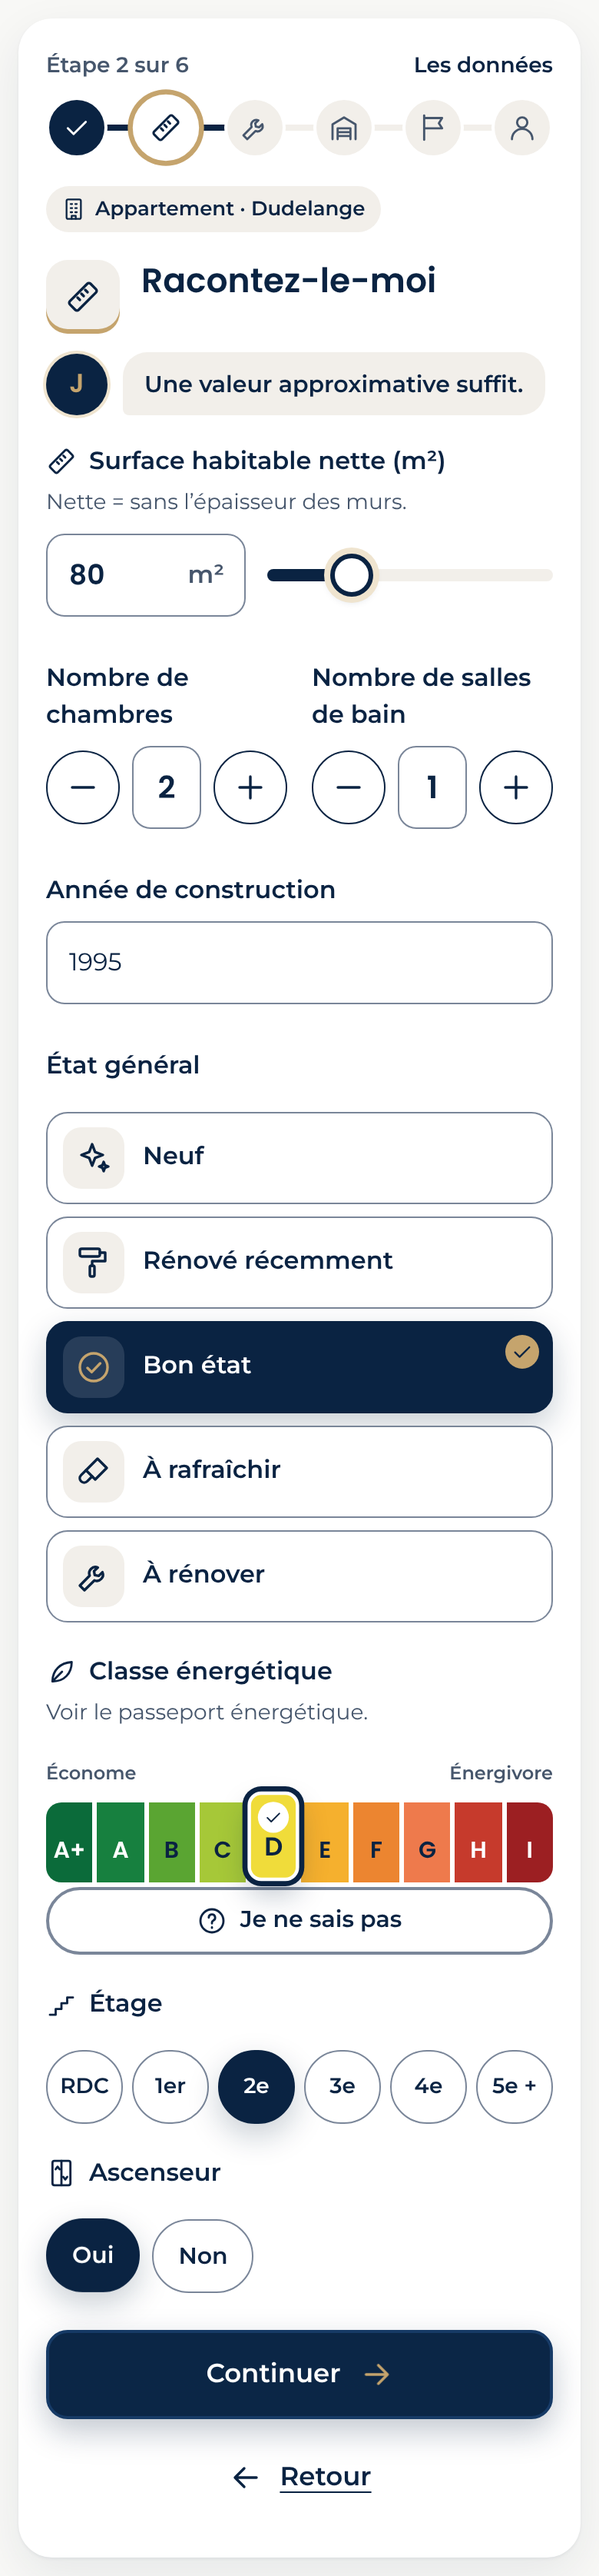
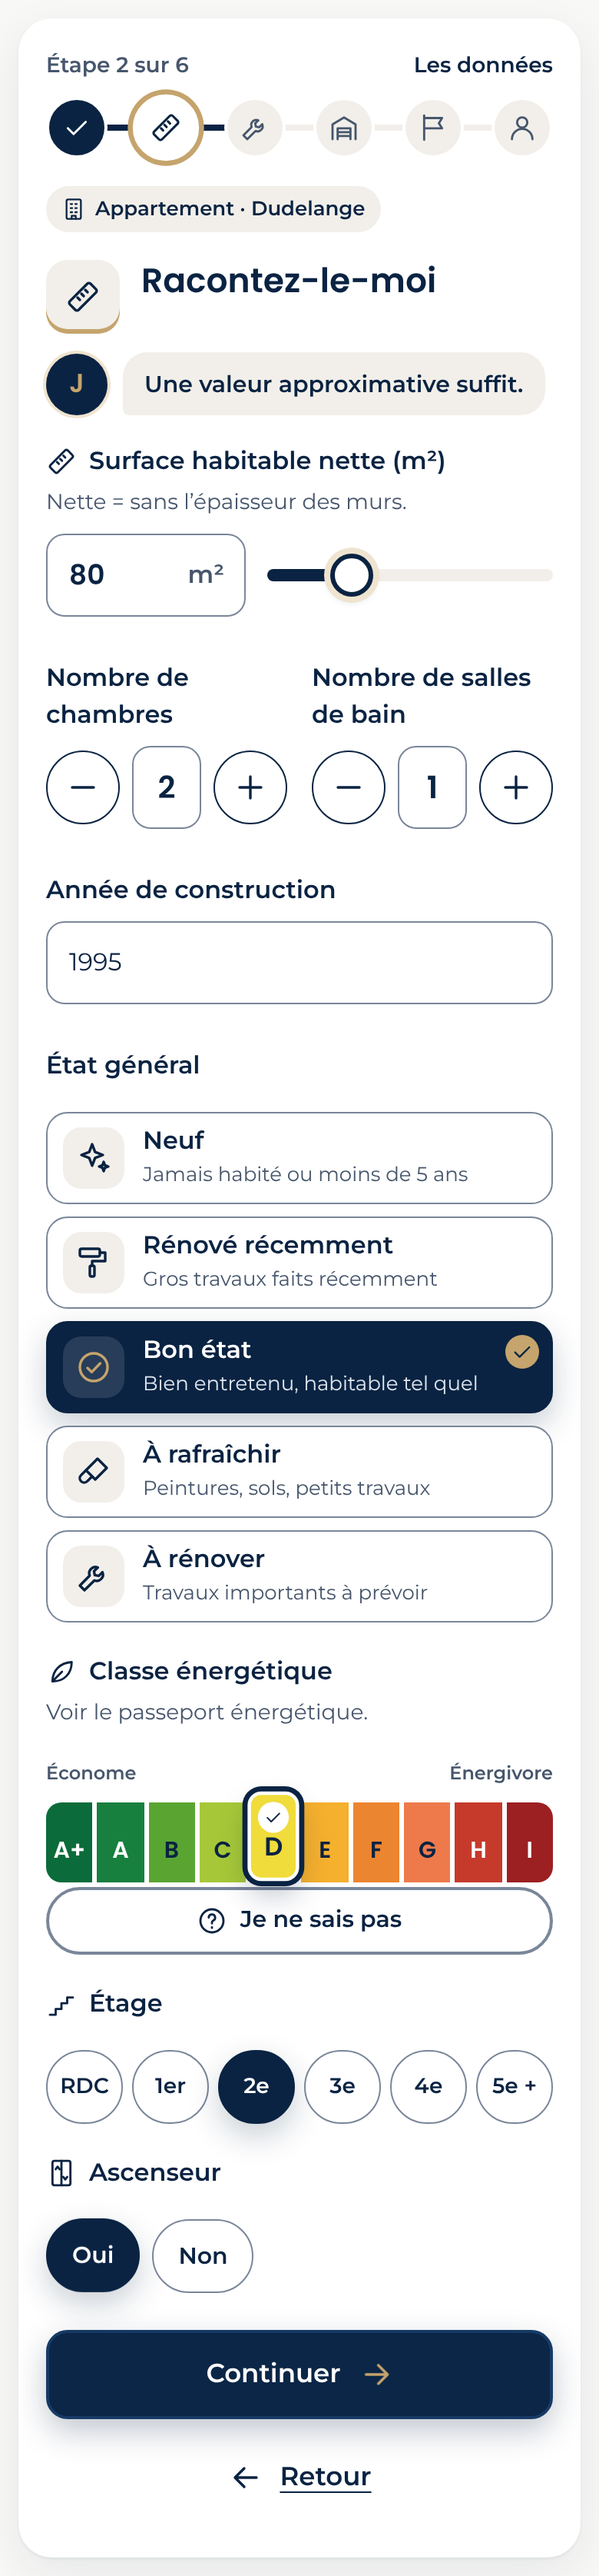
estimation-widget: explications de l'état général de retour, sceau doré à la place des confettis
- état général : les explications courtes reviennent (poste qui pèse le plus
  sur le prix, −15 % à +8 %)
- résultat : un sceau doré qui se dessine et un liseré doré qui se remplit,
  plus sobres que des confettis pour une estimation parfois décevante
- 45 tests, 0 erreur axe-core

Claude-Session: https://claude.ai/code/session_01846hvutoHPqEEd264myZJw

Changed region(s): [[0.2462, 0.4346, 0.6462, 0.6209]]

diff --git a/estimation-widget/src/styles.css b/estimation-widget/src/styles.css
@@ -531,36 +531,12 @@ details.recap ul { padding: 0 14px 10px; }
 p.trust { display: flex; align-items: center; justify-content: center; gap: 8px; margin: 4px 0 0; font-size: 0.8125rem; color: var(--muted); font-weight: 500; }
 p.trust .ico { color: var(--up); }
 
-/* ---------- Confettis dorés sur le résultat ---------- */
-.result-hero { overflow: hidden; }
-.confetti { position: absolute; inset: 0; pointer-events: none; }
-.confetti i { position: absolute; top: -12px; width: 8px; height: 12px; border-radius: 2px; background: var(--gold); opacity: 0; animation: confetti 2.4s cubic-bezier(0.25, 0.6, 0.4, 1) forwards; }
-.confetti i:nth-child(3n) { background: #e3cfa6; width: 6px; height: 10px; }
-.confetti i:nth-child(4n) { background: #ffffff; width: 5px; height: 8px; border-radius: 50%; }
-.confetti i:nth-child(1) { left: 6%; animation-delay: 0.05s; }
-.confetti i:nth-child(2) { left: 13%; animation-delay: 0.3s; }
-.confetti i:nth-child(3) { left: 20%; animation-delay: 0.15s; }
-.confetti i:nth-child(4) { left: 27%; animation-delay: 0.45s; }
-.confetti i:nth-child(5) { left: 33%; animation-delay: 0s; }
-.confetti i:nth-child(6) { left: 40%; animation-delay: 0.35s; }
-.confetti i:nth-child(7) { left: 46%; animation-delay: 0.1s; }
-.confetti i:nth-child(8) { left: 52%; animation-delay: 0.5s; }
-.confetti i:nth-child(9) { left: 58%; animation-delay: 0.2s; }
-.confetti i:nth-child(10) { left: 64%; animation-delay: 0.4s; }
-.confetti i:nth-child(11) { left: 70%; animation-delay: 0.05s; }
-.confetti i:nth-child(12) { left: 76%; animation-delay: 0.3s; }
-.confetti i:nth-child(13) { left: 82%; animation-delay: 0.15s; }
-.confetti i:nth-child(14) { left: 88%; animation-delay: 0.45s; }
-.confetti i:nth-child(15) { left: 94%; animation-delay: 0.25s; }
-.confetti i:nth-child(16) { left: 10%; animation-delay: 0.6s; }
-.confetti i:nth-child(17) { left: 50%; animation-delay: 0.7s; }
-.confetti i:nth-child(18) { left: 90%; animation-delay: 0.65s; }
-.confetti i:nth-child(odd) { --drift: 24px; --spin: 540deg; }
-.confetti i:nth-child(even) { --drift: -20px; --spin: -420deg; }
-@keyframes confetti {
-  0% { opacity: 0; transform: translate(0, 0) rotate(0); }
-  10% { opacity: 1; }
-  100% { opacity: 0; transform: translate(var(--drift), 260px) rotate(var(--spin)); }
-}
-@media (prefers-reduced-motion: reduce) { .confetti { display: none; } }
-@media print { .confetti { display: none; } }
+/* ---------- Sceau doré qui se dessine (à la place de confettis) ---------- */
+.sent-note .seal { width: 22px; height: 22px; flex: none; }
+.seal-ring, .seal-check { fill: none; stroke: var(--gold); stroke-width: 3.5; stroke-linecap: round; stroke-linejoin: round; }
+.seal-ring { stroke-dasharray: 126; stroke-dashoffset: 126; transform: rotate(-90deg); transform-origin: 24px 24px; animation: draw 0.7s var(--ease) 0.15s forwards; }
+.seal-check { stroke-dasharray: 30; stroke-dashoffset: 30; animation: draw 0.4s var(--ease) 0.8s forwards; }
+@keyframes draw { to { stroke-dashoffset: 0; } }
+.result-hero::after { background-size: 200% 100%; animation: goldline 1.6s var(--ease) 0.3s both; }
+@keyframes goldline { from { background-position: 100% 0; opacity: 0.3; } to { background-position: 0 0; opacity: 1; } }
+@media (prefers-reduced-motion: reduce) { .seal-ring, .seal-check { stroke-dashoffset: 0; animation: none; } }

diff --git a/estimation-widget/src/ui/result.ts b/estimation-widget/src/ui/result.ts
@@ -138,8 +138,7 @@ export function renderResult(r: PublicResult, t: T, lang: Lang, opts: ResultOpti
 
   return `<section class="result" aria-labelledby="result-title">
   <div class="result-hero">
-    <div class="confetti" aria-hidden="true">${'<i></i>'.repeat(18)}</div>
-    <p class="sent-note">${icon('check', 'ico ico-xs')}<span>${esc(t('result.sent'))}</span></p>
+    <p class="sent-note"><svg class="seal" viewBox="0 0 48 48" aria-hidden="true" focusable="false"><circle class="seal-ring" cx="24" cy="24" r="20"/><path class="seal-check" d="M15 24.5l6 6L33 18"/></svg><span>${esc(t('result.sent'))}</span></p>
     <h2 id="result-title" class="step-title" tabindex="-1">${esc(t('result.ready'))}</h2>
     <p class="hero-meta">${esc(t('result.subtitle', { type: typeLabel, commune: r.commune }))}${r.surface ? ` · ${r.surface} m²` : ''}</p>
     <p class="hero-label">${esc(t('result.market'))}</p>

diff --git a/estimation-widget/src/ui/steps.ts b/estimation-widget/src/ui/steps.ts
@@ -257,7 +257,7 @@ function step2(ctx: Ctx): string {
   ${stepper(ctx, 'sdb', t('fields.sdb'), { min: 0, max: LIMITS.sdb.max })}
 </div>
 ${input(ctx, 'annee', t('fields.annee'), { inputmode: 'numeric', placeholder: t('fields.anneePlaceholder'), maxlength: 4 })}
-${choices(ctx, 'etat', t('fields.etat'), opts(t, 'fields.etatOptions', ETATS, ETAT_ICONS), 'list')}
+${choices(ctx, 'etat', t('fields.etat'), opts(t, 'fields.etatOptions', ETATS, ETAT_ICONS, 'fields.etatHints'), 'list')}
 ${energyScale(ctx)}
 ${
   house
